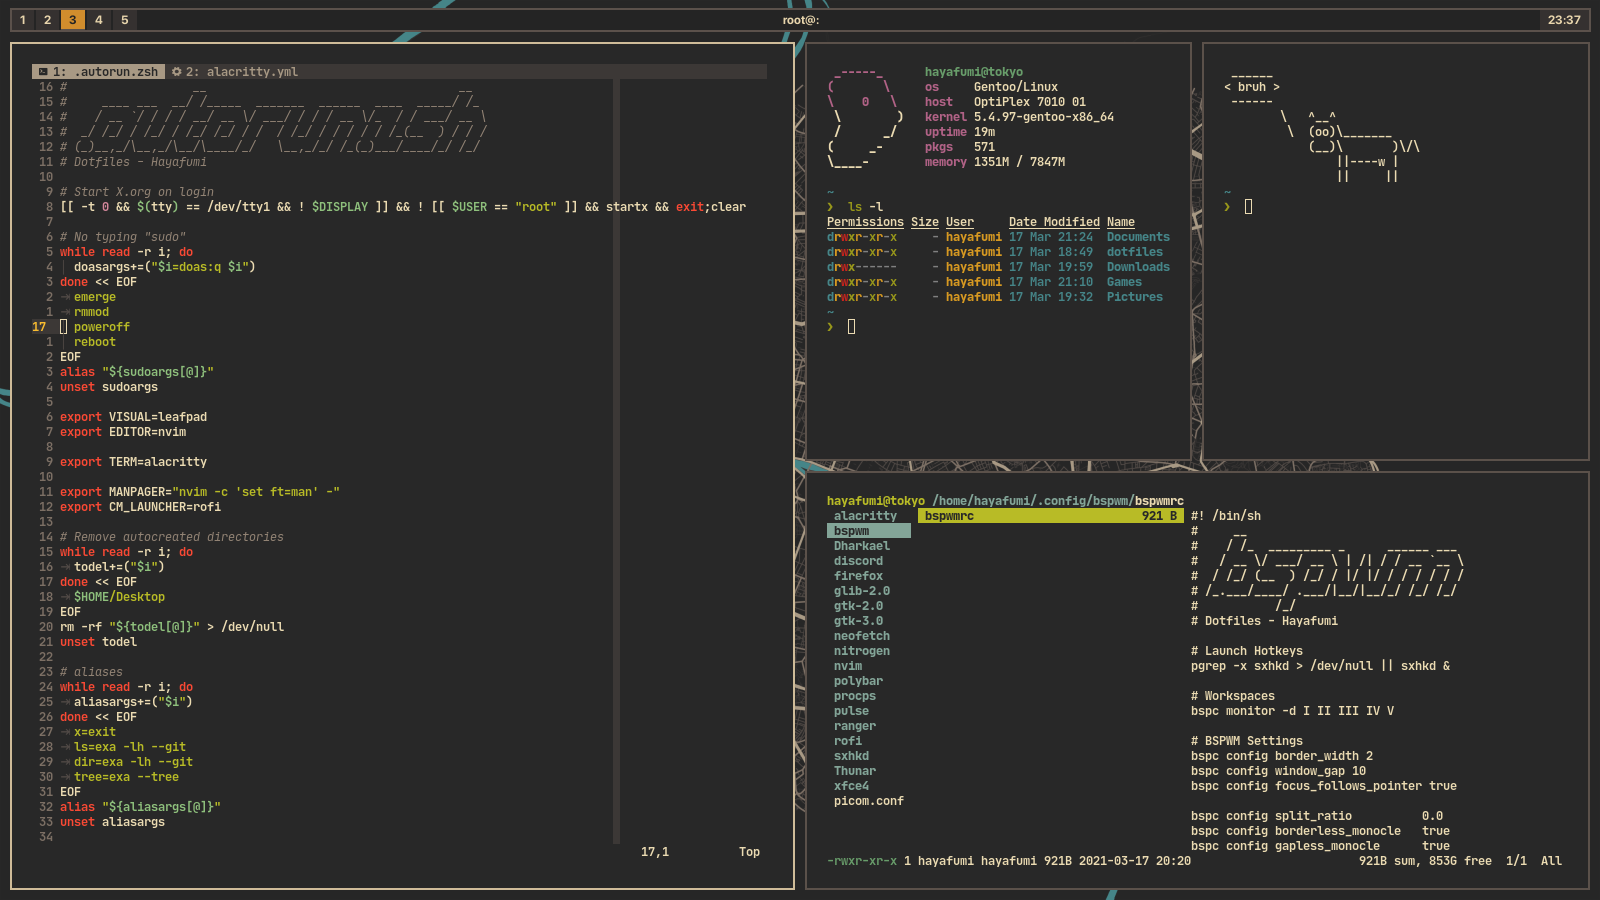
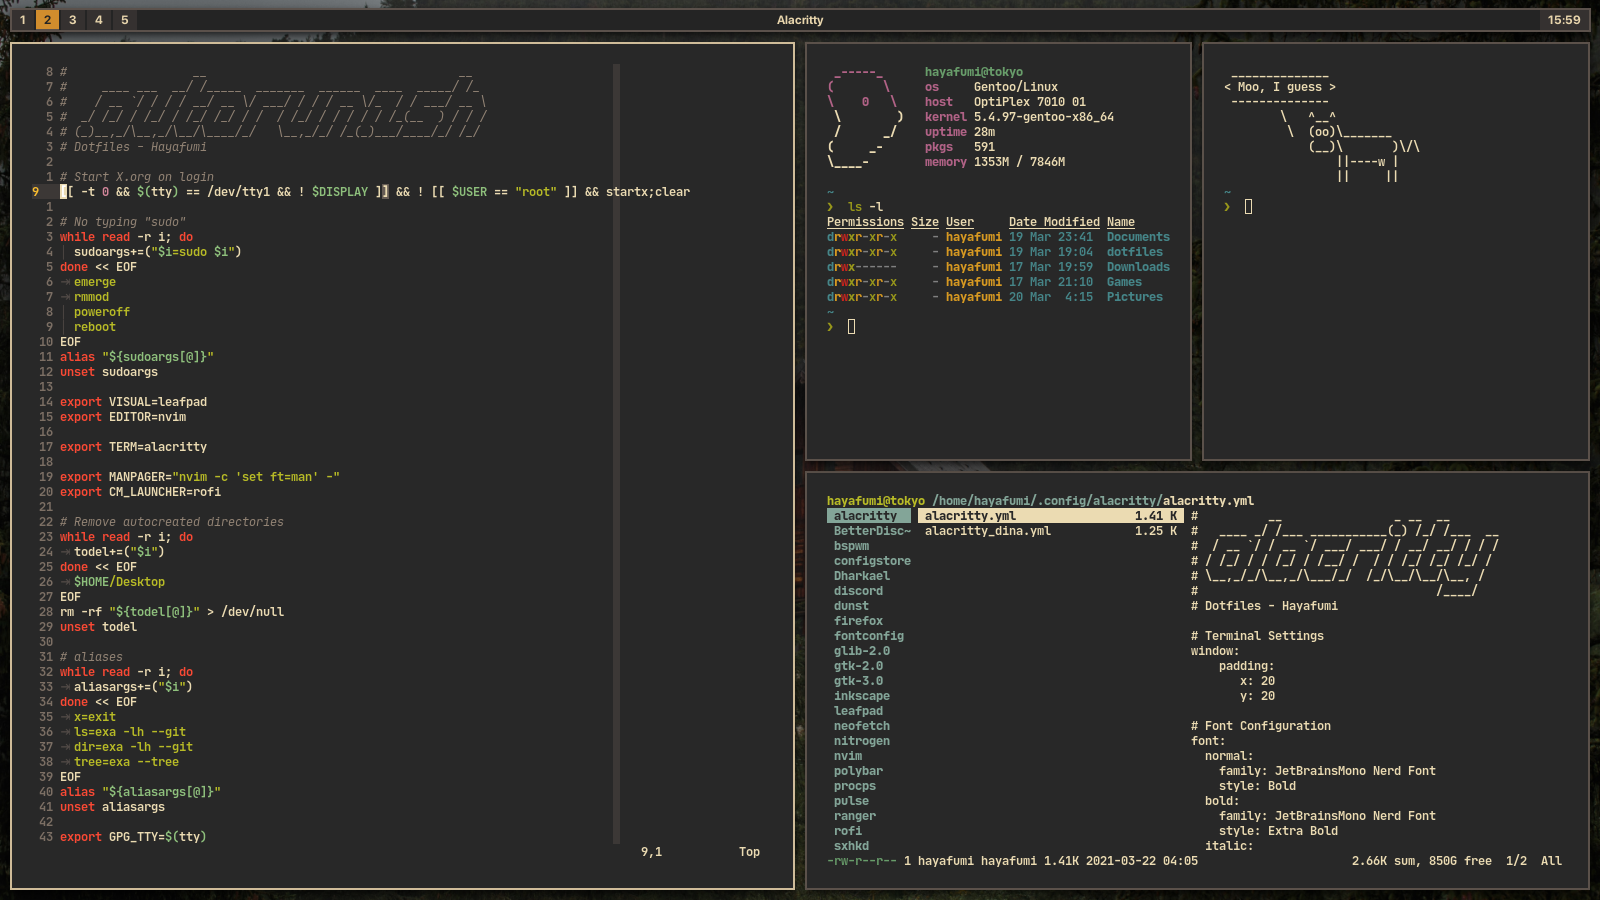
Updated screenshots, updated picom

diff --git a/README.md b/README.md
@@ -3,5 +3,5 @@ My configuration files of my main desktop.
 
 #### 📷 Screenshots
 ![screenshot](/screenshots/screenshot.png)
-![neofetch](/screenshots/neofetch.png)
+![pfetch](/screenshots/pfetch.png)
 ![dualmonitor](/screenshots/dualmonitor.png)
